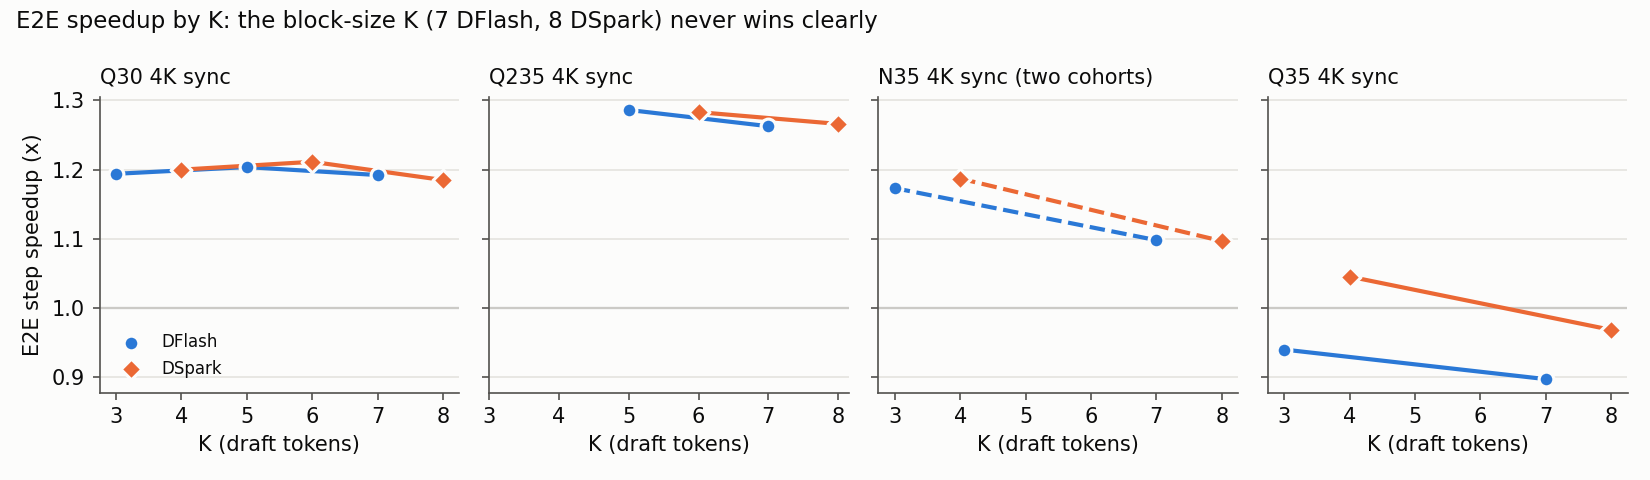
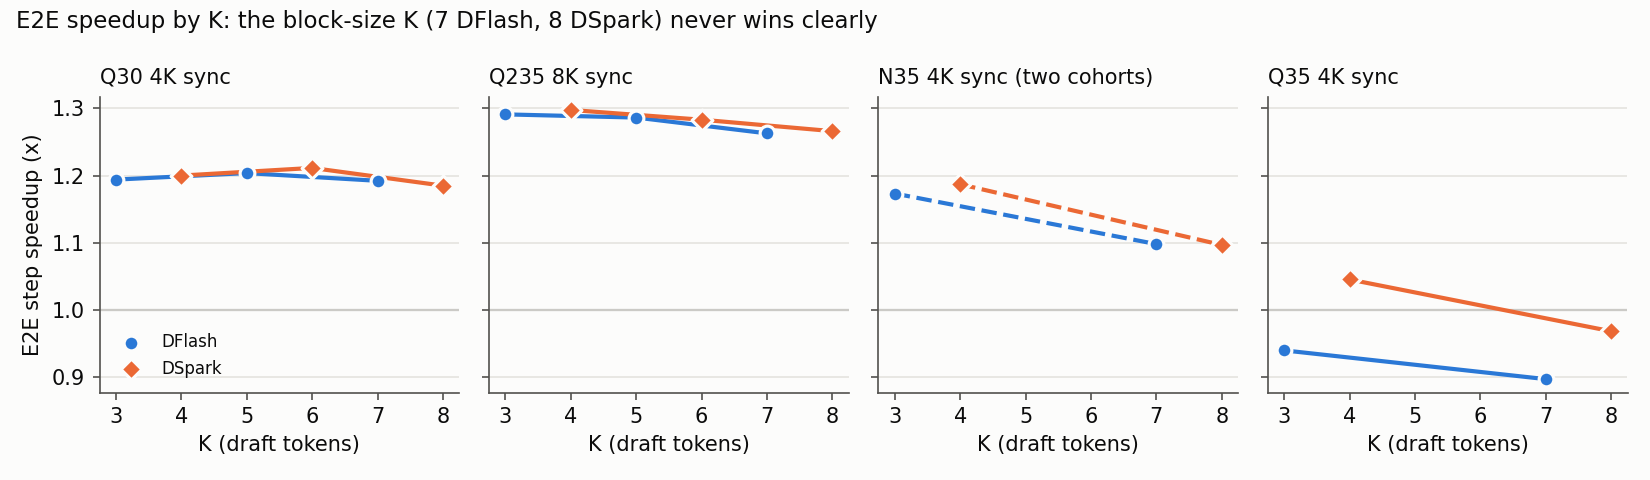
docs: add Q235 sync K3/K4 reruns and Q235 SWE DSpark K8

diff --git a/experiments/specdec_perf_20261020/report/index.html b/experiments/specdec_perf_20261020/report/index.html
@@ -95,9 +95,11 @@ The report text is in <a href="README.md">README.md</a>.</p>
 <tbody>
 <tr><td><a href="https://wandb.ai/nvidia/sna-async-grpo-gb200/runs/nx1k0nig">ksweep-tp8-baseline-s64</a></td><td class='text'>-</td><td>-</td><td>18</td><td>117.9</td><td>52.6</td><td>17.176</td><td>16.1</td><td>226.3</td><td>202.9</td><td>389.3</td><td>-</td><td>-</td><td>-</td><td class='text'>-</td><td class='text'>finished</td></tr>
 <tr class="superseded"><td><a href="https://wandb.ai/nvidia/sna-async-grpo-gb200/runs/smr92h3o">ksweep-frozen-dflash-k3</a></td><td class='text'>DFlash frozen</td><td>3</td><td>0</td><td>-</td><td>-</td><td>-</td><td>-</td><td>-</td><td>-</td><td>-</td><td>-</td><td>-</td><td>-</td><td class='text'>ksweep-tp8-baseline-s64</td><td class='text'>superseded: r2 job 8150700</td></tr>
+<tr><td><a href="https://wandb.ai/nvidia/sna-async-grpo-gb200/runs/zoj3cy96">ksweep-frozen-dflash-k3-r2</a></td><td class='text'>DFlash frozen</td><td>3</td><td>18</td><td>72.5</td><td>53.6</td><td>17.345</td><td>15.9</td><td>175.3</td><td>262.1</td><td>634.1</td><td>2.48</td><td class="good">1.29x</td><td class="good">1.63x</td><td class='text'>ksweep-tp8-baseline-s64</td><td class='text'>finished</td></tr>
 <tr><td><a href="https://wandb.ai/nvidia/sna-async-grpo-gb200/runs/3rxkurwl">ksweep-frozen-dflash-k5</a></td><td class='text'>DFlash frozen</td><td>5</td><td>18</td><td>72.9</td><td>54.1</td><td>17.285</td><td>16.0</td><td>175.9</td><td>260.8</td><td>629.4</td><td>2.78</td><td class="good">1.29x</td><td class="good">1.62x</td><td class='text'>ksweep-tp8-baseline-s64</td><td class='text'>finished</td></tr>
 <tr><td><a href="https://wandb.ai/nvidia/sna-async-grpo-gb200/runs/oj47xnqq">ksweep-frozen-dflash-k7</a></td><td class='text'>DFlash frozen</td><td>7</td><td>18</td><td>75.7</td><td>54.3</td><td>17.257</td><td>16.2</td><td>179.2</td><td>255.9</td><td>605.9</td><td>2.91</td><td class="good">1.26x</td><td class="good">1.56x</td><td class='text'>ksweep-tp8-baseline-s64</td><td class='text'>finished</td></tr>
 <tr class="superseded"><td><a href="https://wandb.ai/nvidia/sna-async-grpo-gb200/runs/mn4rdmkp">ksweep-frozen-dspark-k4</a></td><td class='text'>DSpark frozen</td><td>4</td><td>0</td><td>-</td><td>-</td><td>-</td><td>-</td><td>-</td><td>-</td><td>-</td><td>-</td><td>-</td><td>-</td><td class='text'>ksweep-tp8-baseline-s64</td><td class='text'>superseded: r2 job 8151041</td></tr>
+<tr><td><a href="https://wandb.ai/nvidia/sna-async-grpo-gb200/runs/cypbqdxt">ksweep-frozen-dspark-k4-r2</a></td><td class='text'>DSpark frozen</td><td>4</td><td>18</td><td>71.3</td><td>53.9</td><td>17.386</td><td>16.2</td><td>174.4</td><td>262.9</td><td>643.1</td><td>2.73</td><td class="good">1.30x</td><td class="good">1.65x</td><td class='text'>ksweep-tp8-baseline-s64</td><td class='text'>finished</td></tr>
 <tr><td><a href="https://wandb.ai/nvidia/sna-async-grpo-gb200/runs/b13a2gei">ksweep-frozen-dspark-k6</a></td><td class='text'>DSpark frozen</td><td>6</td><td>18</td><td>72.6</td><td>54.6</td><td>17.462</td><td>16.4</td><td>176.4</td><td>260.3</td><td>632.7</td><td>2.97</td><td class="good">1.28x</td><td class="good">1.63x</td><td class='text'>ksweep-tp8-baseline-s64</td><td class='text'>finished</td></tr>
 <tr><td><a href="https://wandb.ai/nvidia/sna-async-grpo-gb200/runs/2x566mtk">ksweep-frozen-dspark-k8</a></td><td class='text'>DSpark frozen</td><td>8</td><td>18</td><td>76.2</td><td>53.7</td><td>17.348</td><td>15.6</td><td>178.7</td><td>256.7</td><td>602.0</td><td>3.08</td><td class="good">1.27x</td><td class="good">1.55x</td><td class='text'>ksweep-tp8-baseline-s64</td><td class='text'>finished</td></tr>
 </tbody></table></div>
@@ -288,6 +290,7 @@ The report text is in <a href="README.md">README.md</a>.</p>
 <tbody>
 <tr><td><a href="https://wandb.ai/nvidia/sna-async-grpo-gb200/runs/3nogyueg">baseline-v10</a></td><td class='text'>-</td><td>-</td><td>11</td><td>679.2</td><td>71.5</td><td>0.001</td><td>9.9</td><td>761.2</td><td>28.1</td><td>57.0</td><td>-</td><td>-</td><td>-</td><td class='text'>-</td><td class='text'>finished</td></tr>
 <tr><td><a href="https://wandb.ai/nvidia/sna-async-grpo-gb200/runs/mfl03vwr">frozen-dflash-k7-v10</a></td><td class='text'>DFlash frozen</td><td>7</td><td>14</td><td>581.3</td><td>72.3</td><td>0.001</td><td>10.2</td><td>664.5</td><td>31.9</td><td>64.8</td><td>1.37</td><td class="good">1.16x</td><td class="good">1.19x</td><td class='text'>baseline-v10</td><td class='text'>finished</td></tr>
+<tr><td><a href="https://wandb.ai/nvidia/sna-async-grpo-gb200/runs/bop3joyd">frozen-dspark-k8-v10</a></td><td class='text'>DSpark frozen</td><td>8</td><td>13</td><td>596.9</td><td>68.8</td><td>0.001</td><td>10.1</td><td>676.4</td><td>31.8</td><td>64.7</td><td>1.72</td><td class="good">1.12x</td><td class="good">1.13x</td><td class='text'>baseline-v10</td><td class='text'>finished</td></tr>
 </tbody></table></div>
 </body>
 </html>

diff --git a/experiments/specdec_perf_20261020/plot_report.py b/experiments/specdec_perf_20261020/plot_report.py
@@ -274,8 +274,9 @@ def plot_k_sweep(runs: list[dict], path: Path) -> None:
         ax.set_xticks(range(3, 9))
         ax.set_xlabel("K (draft tokens)", color=INK)
         suffix = " (two cohorts)" if SHORT[model] in MIXED_COHORT else ""
+        label = DEFAULT_WORKLOAD.get(model, WORKLOAD["default"])
         ax.set_title(
-            f"{SHORT[model]} 4K sync{suffix}", loc="left", fontsize=10, color=INK
+            f"{SHORT[model]} {label} sync{suffix}", loc="left", fontsize=10, color=INK
         )
     axes[0].set_ylabel("E2E step speedup (x)", color=INK)
     axes[0].legend(frameon=False, fontsize=8, labelcolor=INK, loc="lower left")

diff --git a/experiments/specdec_perf_20261020/report/README.md b/experiments/specdec_perf_20261020/report/README.md
@@ -58,8 +58,8 @@ Assume that generation takes zero time. Then the step time decreases by the gene
 | Q30 | DAPO 32K | sync | DFlash | 7 | 0.82 | 5.41x | 1.33x | 1.43x | 2.99 | 0.30 (12 paired) |
 | Q30 | DAPO 32K | async | DSpark | 8 | 0.54 | 2.17x | 1.46x | 2.46x | 3.62 | 0.58 |
 | Q30 | DAPO 32K | async | DFlash | 7 | 0.54 | 2.17x | 1.41x | 2.16x | 2.98 | 0.54 |
-| Q235 | OpenMath 8K | sync | DFlash | 5 | 0.52 | 2.09x | 1.29x | 1.62x | 2.78 | 0.43 |
-| Q235 | OpenMath 8K | sync | DSpark | 6 | 0.52 | 2.09x | 1.28x | 1.63x | 2.97 | 0.42 |
+| Q235 | OpenMath 8K | sync | DSpark | 4 | 0.52 | 2.09x | 1.30x | 1.65x | 2.73 | 0.44 |
+| Q235 | OpenMath 8K | sync | DFlash | 3 | 0.52 | 2.09x | 1.29x | 1.63x | 2.48 | 0.43 |
 | Q235 | OpenMath 8K | async | DSpark | 4 | 0.27 | 1.37x | 1.39x | 3.03x | 2.70 | 1.06 |
 | Q235 | OpenMath 8K | async | DFlash | 3 | 0.27 | 1.37x | 1.36x | 2.94x | 2.46 | 0.99 |
 | N35 | OpenMath 4K | sync | DSpark | 4 | 0.49 | 1.97x | 1.19x | 1.55x | 3.27 | 0.32 |
@@ -92,19 +92,19 @@ In every frozen arm, the policy training, logprob and refit times are within 1-4
 |---|---|---|---|---|---|
 | Q30 | sync | 3, 5, 7 | 5: 1.20x (K3 1.19x, K7 1.19x) | 4, 6, 8 | 6: 1.21x (K4 1.20x, K8 1.19x) |
 | Q30 | async | 3, 5, 7 | 7: 1.04x (noise) | 4, 6, 8 | 8: 1.04x (noise) |
-| Q235 | sync | 5, 7 | 5: 1.29x (K7 1.26x) | 6, 8 | 6: 1.28x (K8 1.27x) |
+| Q235 | sync | 3, 5, 7 | 3: 1.29x (K5 1.29x, K7 1.26x) | 4, 6, 8 | 4: 1.30x (K6 1.28x, K8 1.27x) |
 | Q235 | async | 3, 5, 7 | 3: 1.36x (K5 1.35x, K7 1.33x) | 4, 6, 8 | 4: 1.39x (K6 1.38x, K8 1.33x) |
 | N35 | sync | 3, 7 | 3: 1.17x (K7 1.10x) | 4, 8 | 4: 1.19x (K8 1.10x) |
 | Q35 | sync | 3, 7 | 3: 0.94x (K7 0.90x) | 4, 8 | 4: 1.05x (K8 0.97x) |
 
-Each row compares K values in one cohort, so all K values in a row share one control. The Q235 K3/K4 sync arms are follow-ups (see below). Q30 uses the K-sweep cohort. In the first cohort, DFlash K7 gave 1.22x and DSpark K8 gave 1.20x. Q35 uses the stock-vLLM cohort.
+Each row compares K values in one cohort, so all K values in a row share one control. The Q235 sync K3 and K4 arms are reruns (jobs 8150700 and 8151041) of two arms that died at startup. They use the same K-sweep control. Q30 uses the K-sweep cohort. In the first cohort, DFlash K7 gave 1.22x and DSpark K8 gave 1.20x. Q35 uses the stock-vLLM cohort.
 
-![E2E speedup by K for OpenMath 4K sync. N35 joins two cohorts (dashed).](plots/k_sweep.png)
+![E2E speedup by K for OpenMath sync (4K, Q235 8K). N35 joins two cohorts (dashed).](plots/k_sweep.png)
 
 At temperature 1.0, the per-token acceptance is 0.25-0.41. Thus the target rarely accepts the last draft slots, but these slots still cost verify tokens.
 
 - On Q30 the K curve is flat (within 2% from K3 to K8).
-- On Q235 sync the middle K wins by 2-3%. On Q235 async, the two smaller K values tie and the block-size K is 3-5% slower. DFlash gives 1.36x, 1.35x and 1.33x at K3, K5 and K7. DSpark gives 1.39x, 1.38x and 1.33x at K4, K6 and K8. The acceptance length goes up with K (DFlash 2.46 to 2.86, DSpark 2.70 to 3.03), but the exposed generation speedup goes down at the block-size K (DFlash 2.94x to 2.51x, DSpark 3.19x at K6 to 2.38x at K8).
+- On Q235 sync the K curve is flat, and the block-size K is 2-3% slower. DFlash gives 1.29x, 1.29x and 1.26x at K3, K5 and K7. DSpark gives 1.30x, 1.28x and 1.27x at K4, K6 and K8. On Q235 async, the two smaller K values tie and the block-size K is 3-5% slower. DFlash gives 1.36x, 1.35x and 1.33x at K3, K5 and K7. DSpark gives 1.39x, 1.38x and 1.33x at K4, K6 and K8. The acceptance length goes up with K (DFlash 2.46 to 2.86, DSpark 2.70 to 3.03), but the exposed generation speedup goes down at the block-size K (DFlash 2.94x to 2.51x, DSpark 3.19x at K6 to 2.38x at K8).
 - On N35 and Q35 the smallest K wins by 4-9%.
 - On Q35 only DSpark K4 is faster than the control. DFlash makes the step slower at both K values.
 
@@ -129,11 +129,11 @@ The N35 K3/K4 and K7/K8 arms ran in different cohorts. Thus their gap includes a
 | Q30 V2, SWE-trained drafter, ready-first, eval timeout 450 s, four timeout prompts dropped | frozen DSpark K8 | 1.98x | **1.22x** | 3.26 | 20 |
 | Q30 V2 window 2 | frozen DFlash K3 / frozen DSpark K4 / online DFlash K3 / online DSpark K4 | 1.01x / 1.33x / 1.32x / 1.29x | 1.00x / 1.09x / 1.09x / 1.06x | 1.02 / 1.22 / 1.65 / 1.29 (3-5 steps) | 20 |
 | Q30 scale2 online TP4 | DFlash K3 / DSpark K4 / DSpark K8 / DFlash K7, lr 1e-4 | 1.28x / 1.31x / 1.22x / 1.27x | 1.05x / 1.07x / 1.00x / 0.99x | 1.66 / 1.76 / 1.84 / 1.69 | 20 |
-| Q235 (32 nodes) | frozen DFlash K7 | 1.14x | 1.16x | 1.38 | 11 (all baseline steps) |
+| Q235 (32 nodes) | frozen DFlash K7 / DSpark K8 | 1.14x / 1.33x | 1.16x / 1.12x | 1.38 / 1.73 | 11 (all baseline steps) |
 
 Model calls take about one fifth of a SWE trajectory. Thus a 1.3x model-call gain saves about 5% of the trajectory. This gain is smaller than the drift between time windows (next table). Thus the E2E column is not a SpecDec measure on SWE.
 
-**DSpark gives a steady 1.24-1.33x on model calls. DFlash on the Thinking drafter gives 1.00-1.05x on Q30 and 1.14x on Q235.** The DFlash acceptance length is 1.3-1.4, against 1.7-2.1 for DSpark. A Q235 model call spends more of its time in decode, so the same acceptance gives more.
+**DSpark gives a steady 1.24-1.33x on model calls, on Q30 and on Q235. DFlash on the Thinking drafter gives 1.00-1.05x on Q30 and 1.14x on Q235.** The DFlash acceptance length is 1.3-1.4, against 1.7-2.1 for DSpark. A Q235 model call spends more of its time in decode, so the same acceptance gives more. Q235 DSpark K8 gets 1.33x from an acceptance length of 1.73. Q30 DSpark K8 needs 1.87 for 1.25x.
 
 **Online co-training fixes the weak DFlash drafter on SWE.** The DFlash K3 acceptance length starts at the frozen value (1.28 at step 1). From step 6 it is 1.76-1.89. Thus model calls go from 1.00x frozen to 1.28x online. The V2 window-2 pair repeats this result: 1.01x frozen against 1.32x online. Online DFlash at the block-size K (K7) gives 1.27x. Online DSpark K4 drops at step 2 (1.45). From step 10 it is above the frozen arm (1.9-2.1 against 1.6-2.1).
 
@@ -443,7 +443,7 @@ Math pairs steps 3-20 and SWE pairs steps 1-20. Updates count the steps in this 
 | Two baselines 1.3-2.7% apart | Same config, different jobs. | compare inside a cohort only |
 | SC (V2) single pair | One baseline and one arm. | window 2 repeats the control (223.7 against 226.1 tok/s), the online DFlash gain and the frozen DSpark K4 model-call gain (1.33x against 1.32x). The step ratio does not repeat (1.09x against 1.17x). |
 | V2 SpecDec counters are zero in 15-17 of 20 steps | The V2 path logs the vLLM SpecDec counters in only some steps. Window-2 frozen DFlash K3 gives 1.02 from 3 steps, against 1.28 in scale2, with the same 1.01x model calls. | not used: V2 rows give no acceptance length. Use model-call tok/s. |
-| Q235 SWE fits 11 steps in 4 h, and E2E (1.16x) is above model call (1.14x) | Async step times alternate between 60-80 s and 870-1430 s. Steps 1-6 give 1.02x and steps 7-11 give 1.30x, so part of the E2E gain is rollout wait. | use model call 1.14x |
+| Q235 SWE fits 11 steps in 4 h, and E2E does not follow model call (DFlash 1.16x against 1.14x, DSpark 1.12x against 1.33x) | Async step times alternate between 60-80 s and 870-1430 s. DFlash steps 1-6 give 1.02x and steps 7-11 give 1.30x, so the E2E ratio follows rollout wait. | use model call 1.14x and 1.33x |
 | Online SWE-trained DFlash K7 acceptance 2.81, below frozen 3.22 | The online drafter starts from the frozen weights. The draft loss goes from 2.60 in steps 1-10 to 2.80 in steps 11-20, and model calls drop to 1.89x in steps 11-20 against 2.04x frozen. | real effect, lr 1e-4 moves a drafter that already fits SWE |
 | SWE-trained DFlash K7 step 0.98x with 2.06x model calls | Four steps with a 1200 s final-eval timeout take 54-63% of the time in all three runs. K7 has a fifth timeout at step 20. | explained, use model call 2.06x |
 | SWE-trained frozen DSpark K4 step 1.10x [1.02, 1.23] | The arm ran 15 h after the control. Outside the four timeout steps, all four DSpark arms give 1.17-1.25x. Frozen K8 gives 1.03x [0.95, 1.17] in the same window. | not confirmed, use model call 1.91x |
@@ -455,19 +455,15 @@ Math pairs steps 3-20 and SWE pairs steps 1-20. Updates count the steps in this 
 | DAPO 32K async baseline waits at steps 3 and 5 (412 s exposed generation against 2 s) | Its slower generation has not caught up yet. From step 7 all runs alternate in phase. Steps 7-20 give DFlash 1.43x and DSpark 1.48x, against 1.41x and 1.46x over steps 3-20. | explained, gain holds in steady state |
 | DAPO 32K sync pairs on 12 steps | The baseline (8146971) hit the 4 h limit at step 14. | above the 8-step floor |
 | Q35 DFlash slower than control at K3 and K7 | The GDN layers give 46 KV cache groups. The GDN metadata-reuse backport gives 1.4-1.8x on rollout and lifts K3 to 1.02x. | root cause known, fix not in stock vLLM |
-| Q235 sync DFlash K3 and DSpark K4 died at startup | megatron-core editable build race between nodes of one job. | fixed in 844da82424, reruns are follow-ups |
+| Q235 sync DFlash K3 and DSpark K4 died at startup | megatron-core editable build race between nodes of one job. | fixed in 844da82424, reruns 8150700 and 8151041 ran 20/20 steps and the tables include them |
 | Q235 async token-probability error spikes in 2 of 6 SpecDec arms | DFlash K3 gives 319 at step 16 and DSpark K6 gives 237.5 at step 8. All other steps of the six arms give 1.05-2.35, and the control maximum is 1.09. The spike is not monotonic in K. The generation KL error stays at 0.0068-0.0069 and the reward at 0.57 in all arms. | not root-caused. One step per run, no effect on the step time or the reward. |
+| More one-step token-probability error spikes in Q235 SpecDec arms | Sync DSpark K4 gives 5.83 at step 11 and sync DFlash K3 gives 2.52 at step 19 (control maximum 1.09). SWE DSpark K8 gives 2381 at step 9 and SWE DFlash K7 gives 8.2 and 7.4 at steps 4 and 7 (control maximum 1.04). The generation KL error stays at the control value (0.0067-0.0078 sync, 0.0019 SWE). | same pattern as the async spikes, not root-caused. The SWE DSpark K8 reward (0.13) matches the control (0.13). |
 
 ---
 
-## Follow-ups still queued
+## Open follow-up
 
-These jobs had not finished on OCI-HSG on 2026-10-25. The results above do not include them. Q235 SWE DSpark K8 is the one drafter that the Q235 SWE comparison does not have yet. The Q235 async K sweep (jobs 8146563-8146568) finished on 2026-10-25, and the tables above include it. Job 8247019 (agent startup bench) ran, but its result is not valid. It needs a fix and a rerun.
-
-| Job | Run | Adds |
-|---|---|---|
-| 8150700, 8151041 | q235-sd1020-ksweep-frozen-dflash-k3-r2, dspark-k4-r2 | Q235 sync smallest K |
-| 8149970 | swe235-sd1020-frozen-dspark-k8-v10 | Q235 SWE DSpark |
+All queued Q235 jobs finished on 2026-10-25, and the tables above include them: the sync K3 and K4 reruns (8150700, 8151041) and the Q235 SWE DSpark K8 arm (8149970). Job 8247019 (agent startup bench) ran, but its result is not valid. It needs a fix and a rerun.
 
 ---
 
